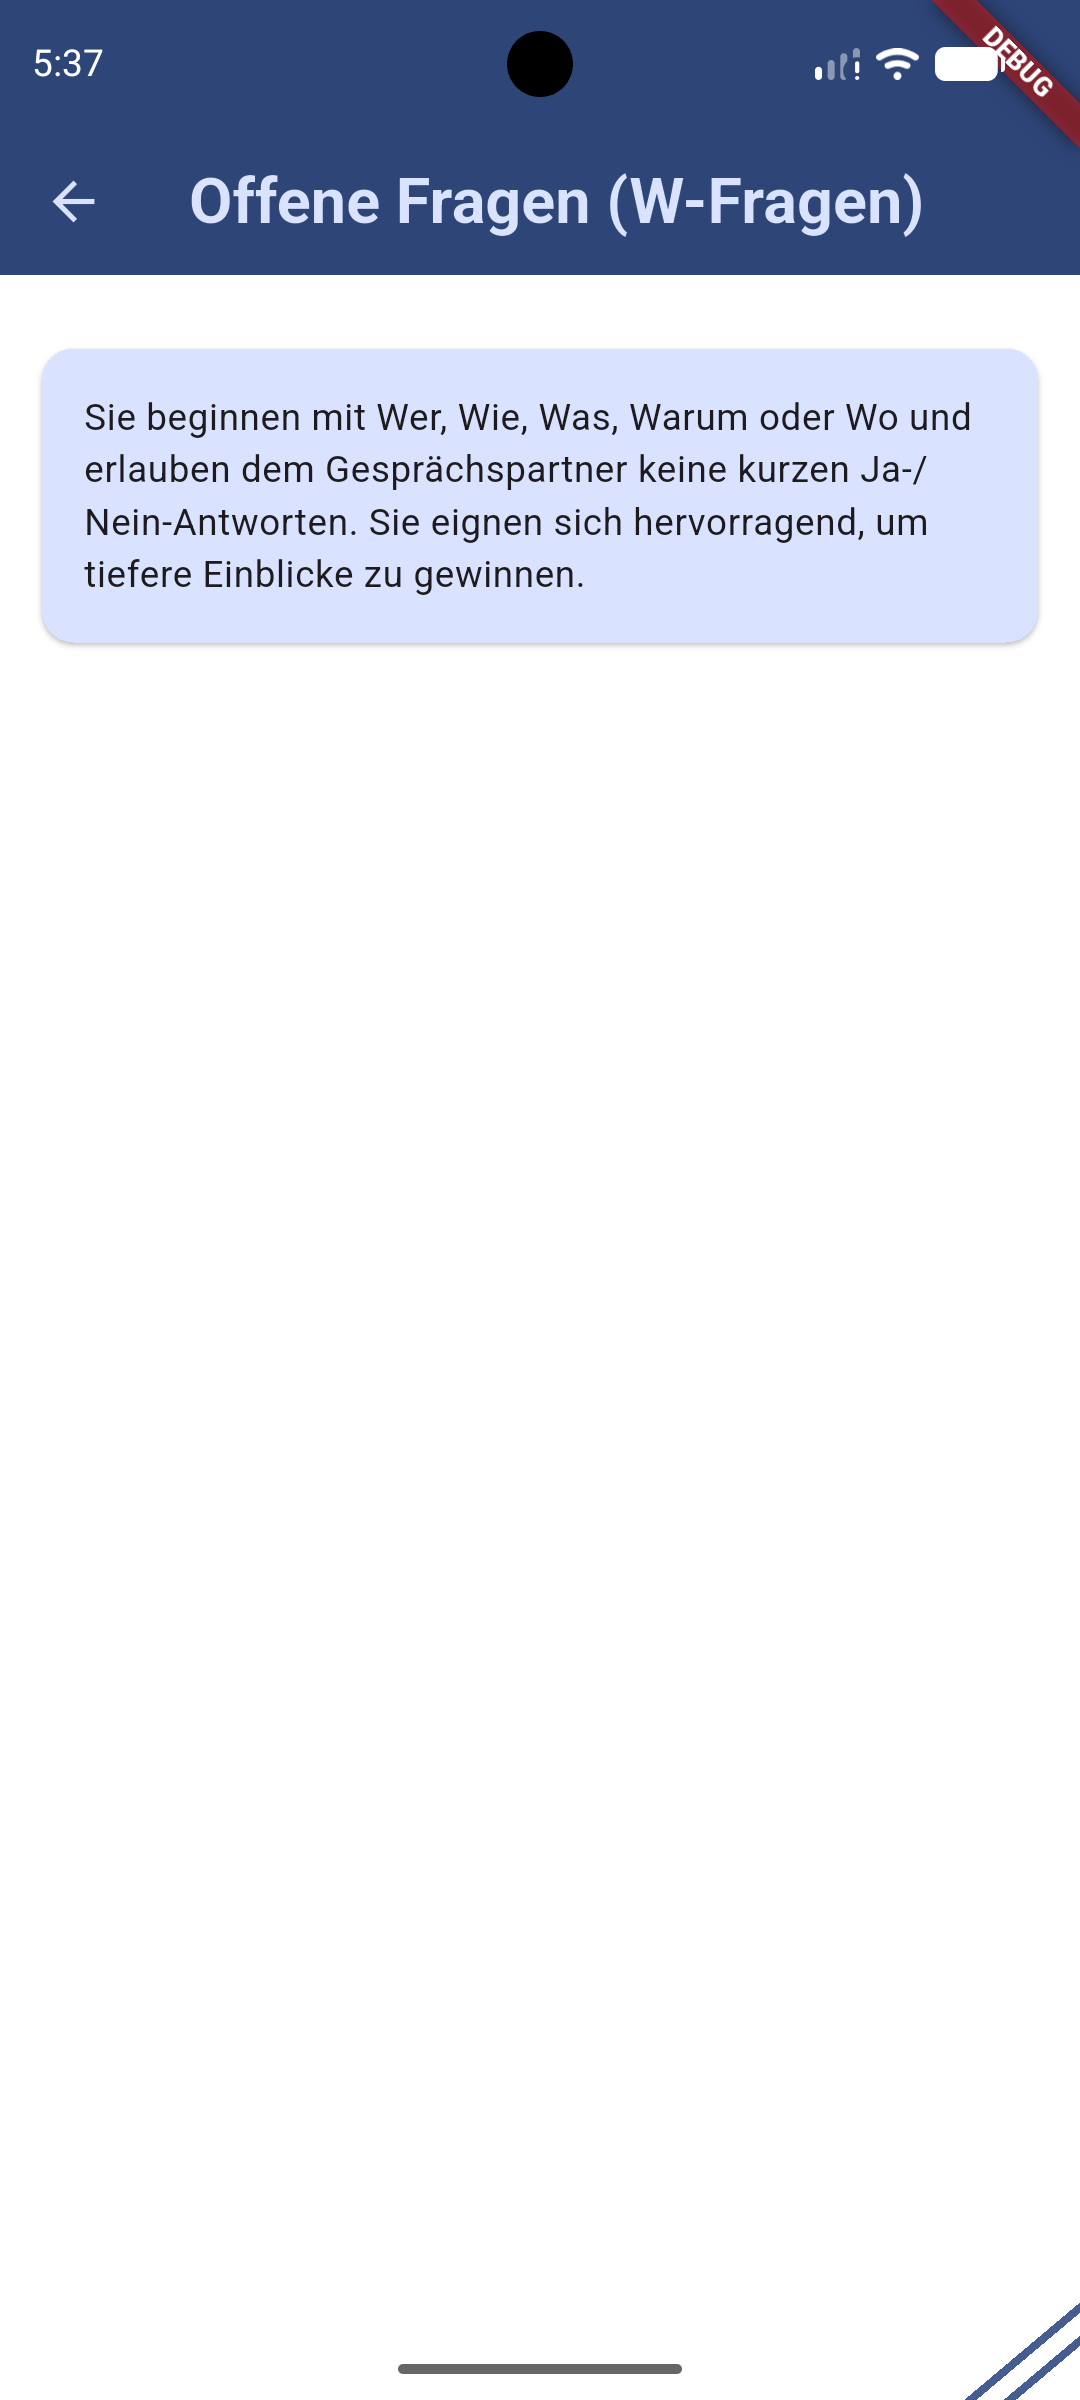
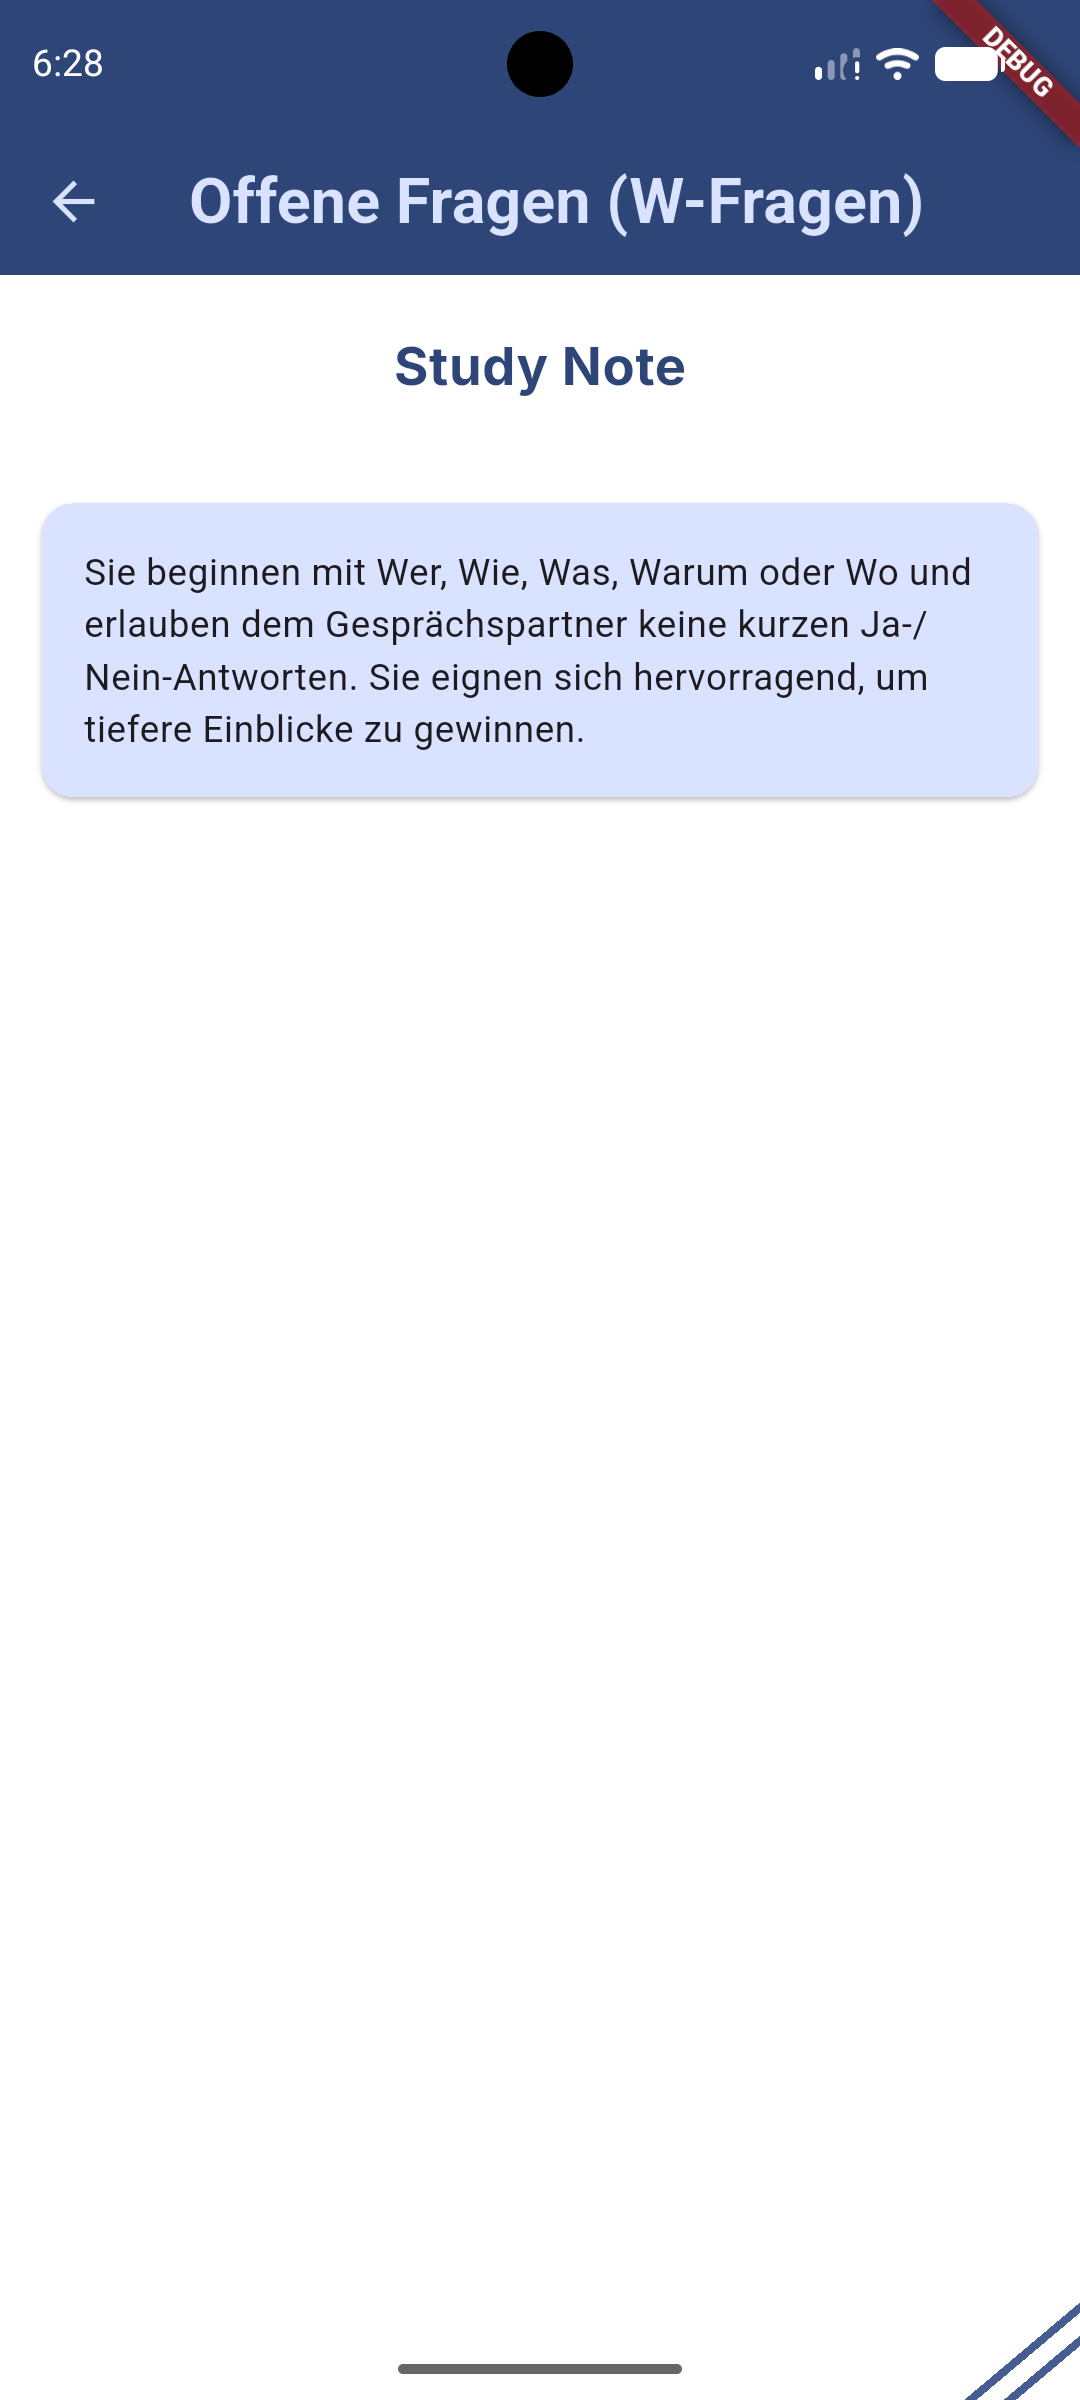
Update study note detail layout

Changed region(s): [[0.0306, 0.125, 0.9778, 0.3438], [0.0611, 0.0, 0.0917, 0.0312]]

diff --git a/frontend/lib/screens/note_screen.dart b/frontend/lib/screens/note_screen.dart
@@ -1,6 +1,7 @@
 import 'package:flutter/material.dart';
 import 'package:frontend/models/study_note.dart';
 import 'package:frontend/widgets/studyflow_screen_body.dart';
+import 'package:google_fonts/google_fonts.dart';
 
 class NoteScreen extends StatelessWidget {
   const NoteScreen({super.key, required this.note});
@@ -11,15 +12,29 @@ class NoteScreen extends StatelessWidget {
   Widget build(BuildContext context) {
     return Scaffold(
       appBar: AppBar(title: Text(note.title)),
-
       body: StudyFlowScreenBody(
         child: Padding(
           padding: const EdgeInsets.only(top: 20),
-          child: Card(
-            child: Padding(
-              padding: const EdgeInsets.all(16),
-              child: Text(note.content),
-            ),
+          child: Column(
+            children: [
+              Center(
+                child: Text(
+                  'Study Note',
+                  style: GoogleFonts.inter(
+                    fontSize: 20,
+                    fontWeight: FontWeight.bold,
+                    color: Theme.of(context).colorScheme.onPrimaryContainer,
+                  ),
+                ),
+              ),
+              const SizedBox(height: 30),
+              Card(
+                child: Padding(
+                  padding: const EdgeInsets.all(16),
+                  child: Text(note.content),
+                ),
+              ),
+            ],
           ),
         ),
       ),